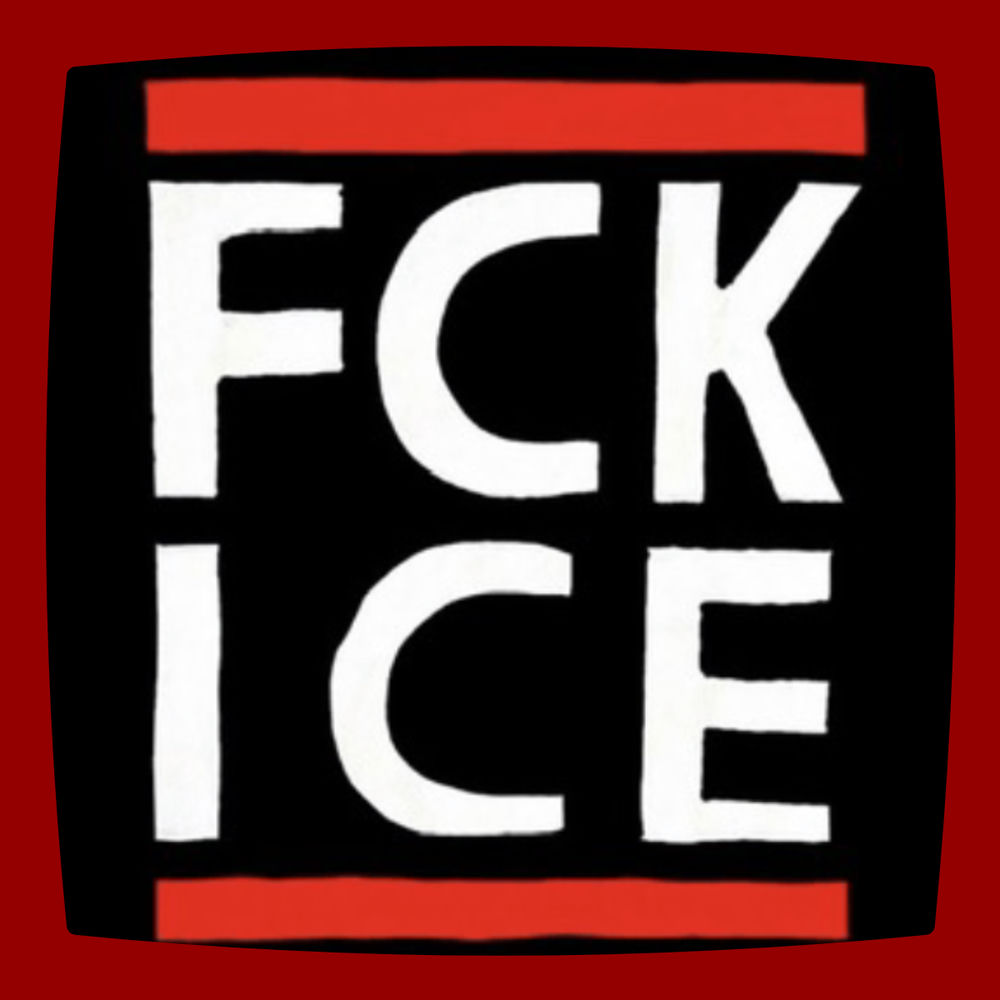
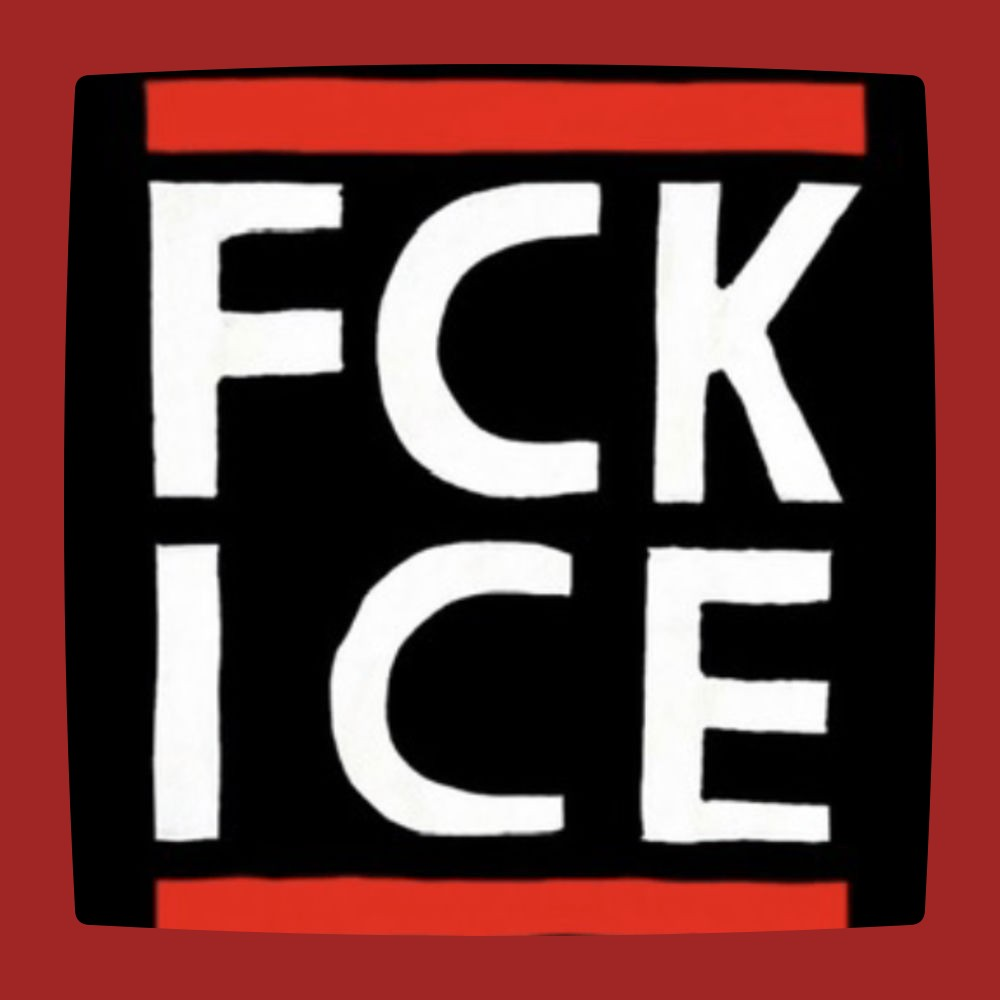
Move Rage Against Authority to dark red, recolor its cover border
Maroon is now purely metal. Rage crosses punk, metal and industrial, so it
gets its own shade in the heavy family.

Changed region(s): [[0.0, 0.0, 1.0, 1.0]]

diff --git a/src/data/palette.ts b/src/data/palette.ts
@@ -45,7 +45,14 @@ export const palette = {
     hex: '#5c1a1f',
     deezer: '#711b1b',
     ink: 'light',
-    use: 'metal, nu-metal, protest hardcore, drone and doom',
+    use: 'metal, nu-metal, drone and doom',
+  },
+  'dark-red': {
+    name: 'Dark red',
+    hex: '#a3262a',
+    deezer: '#a02626',
+    ink: 'light',
+    use: 'protest music, crossover anger',
   },
   'dark-teal': {
     name: 'Dark teal',

diff --git a/docs/palette.md b/docs/palette.md
@@ -12,7 +12,8 @@ The website uses approximate hex values from `src/data/palette.ts`. A playlist's
 | | Medium blue | `medium-blue` | post-rock |
 | | Light blue | `light-blue` | emotive math rock, shoegaze, jazzy instrumental math |
 | Complex and prog | Deep indigo | `deep-indigo` | prog metal, abrasive math rock, zeuhl, art rock |
-| Heavy | Dark maroon | `dark-maroon` | metal, nu-metal, protest hardcore, drone and doom |
+| Heavy | Dark maroon | `dark-maroon` | metal, nu-metal, drone and doom |
+| | Dark red | `dark-red` | protest music, crossover anger |
 | Punk | Yellow-green | `yellow-green` | punk, hardcore punk, riot grrrl, garage punk |
 | Electronic crossover | Bright yellow | `bright-yellow` | rave rock, big beat, dance-punk |
 | Warm psych | Bright orange | `bright-orange` | desert psych, stoner, microtonal psych, krautrock |

diff --git a/playlists/rage-against-authority.md b/playlists/rage-against-authority.md
@@ -2,7 +2,7 @@
 title: "Rage Against Authority"
 youtubeTitle: "Rage Against Authority | angry protest music (RATM, Ministry, Slayer, Refused)"
 genres: "Hardcore / thrash / industrial"
-color: dark-maroon
+color: dark-red
 status: published
 artists:
   - "Slayer"
